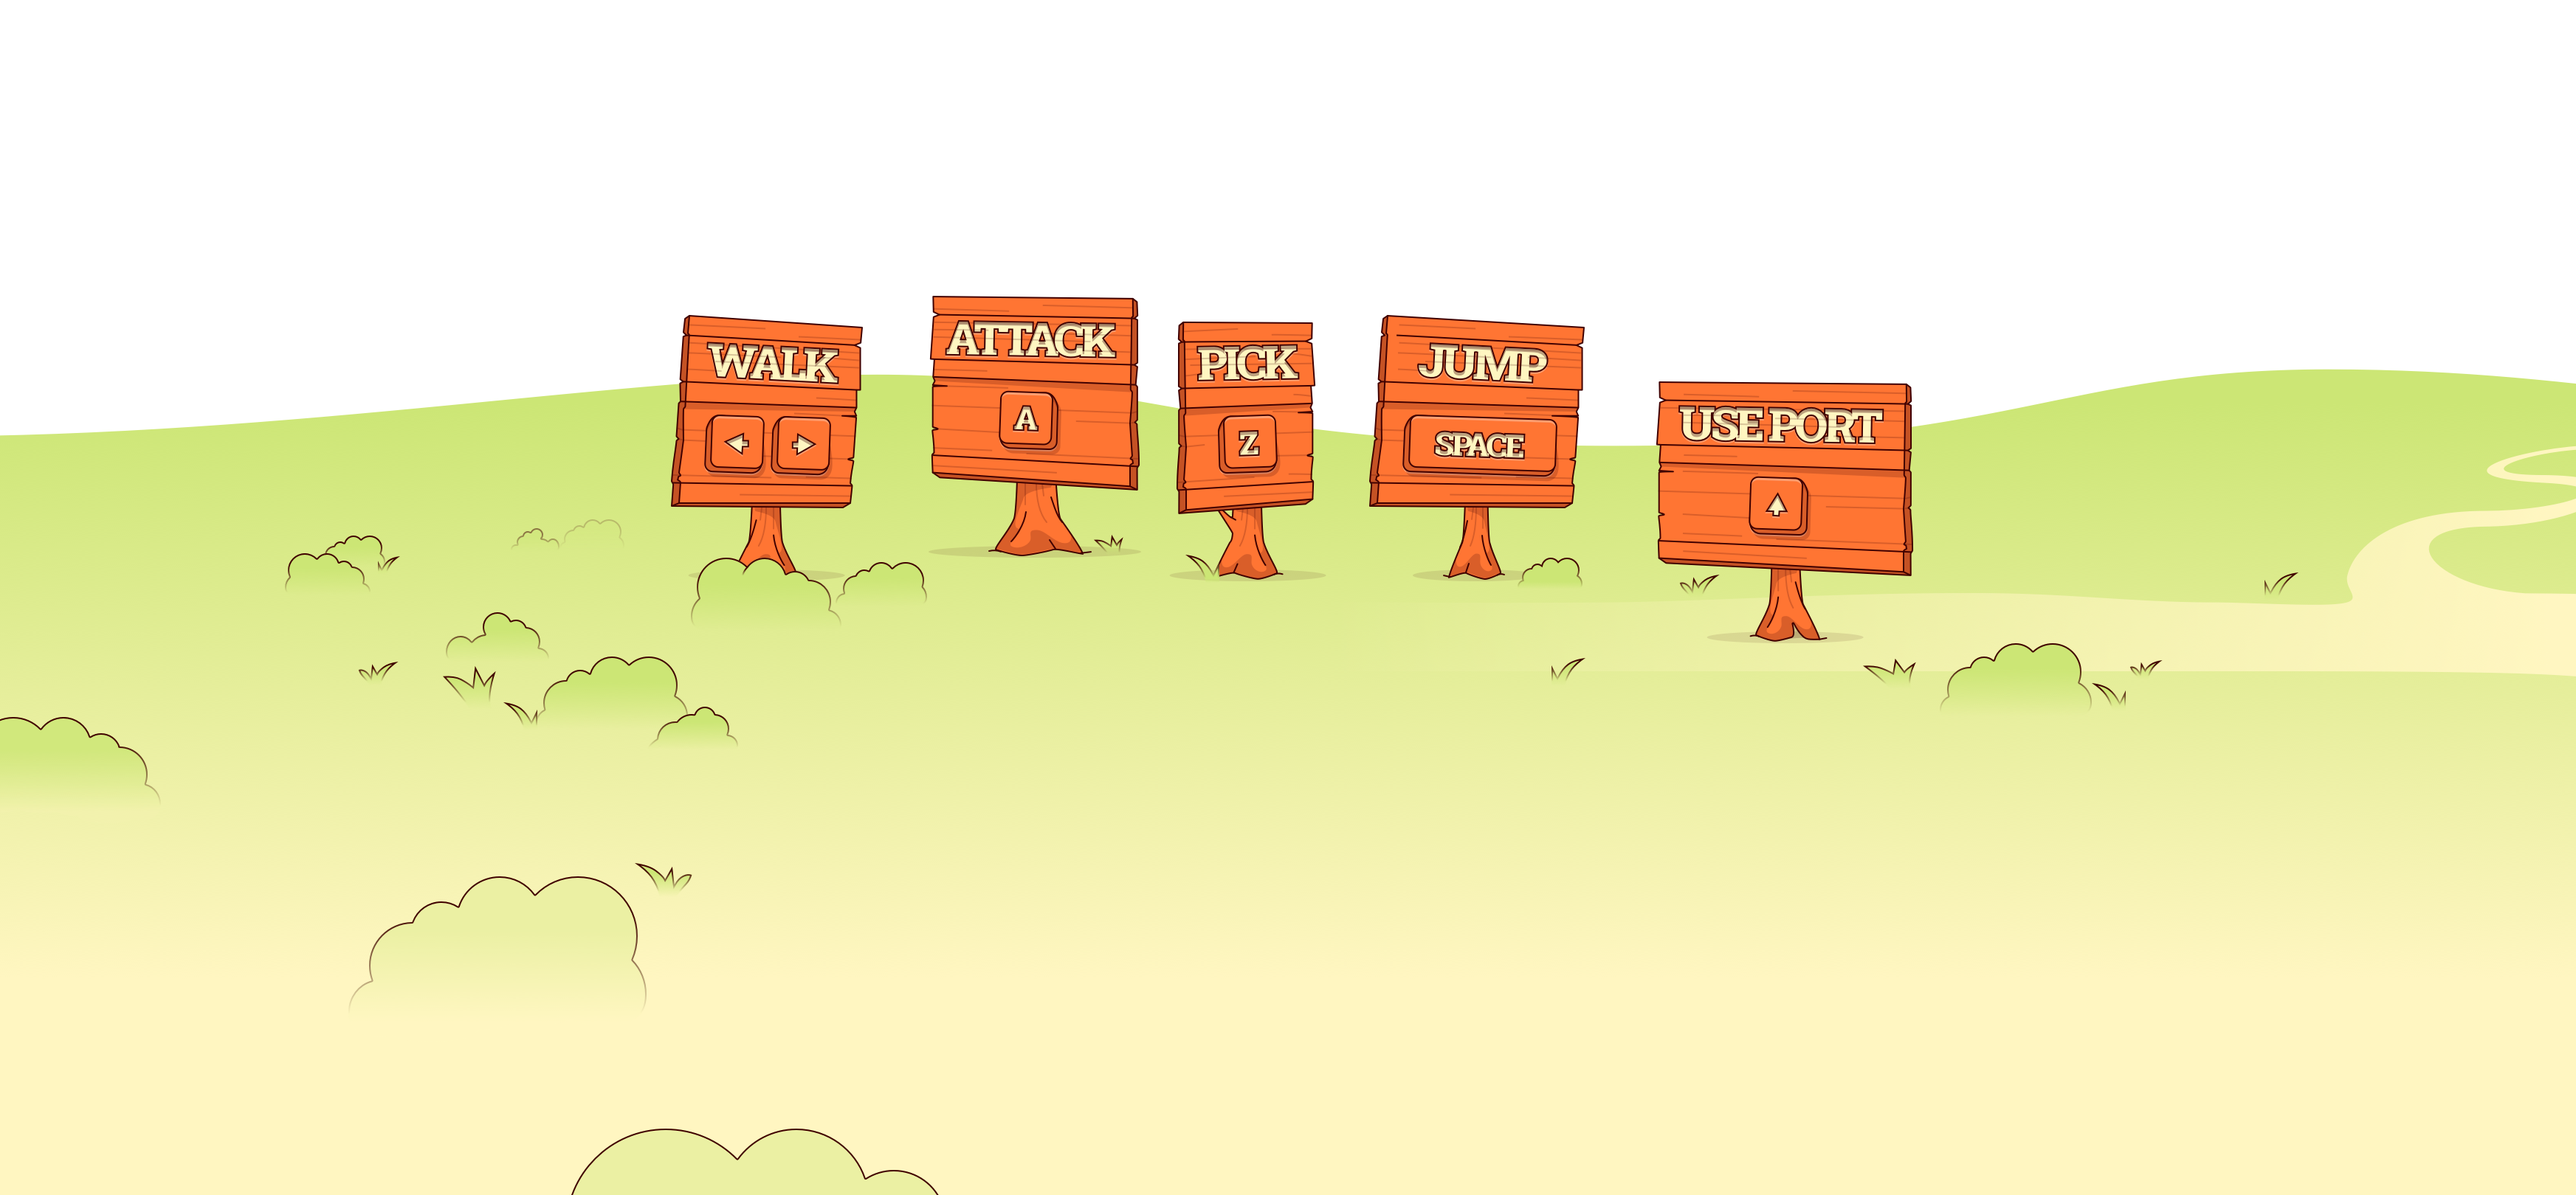
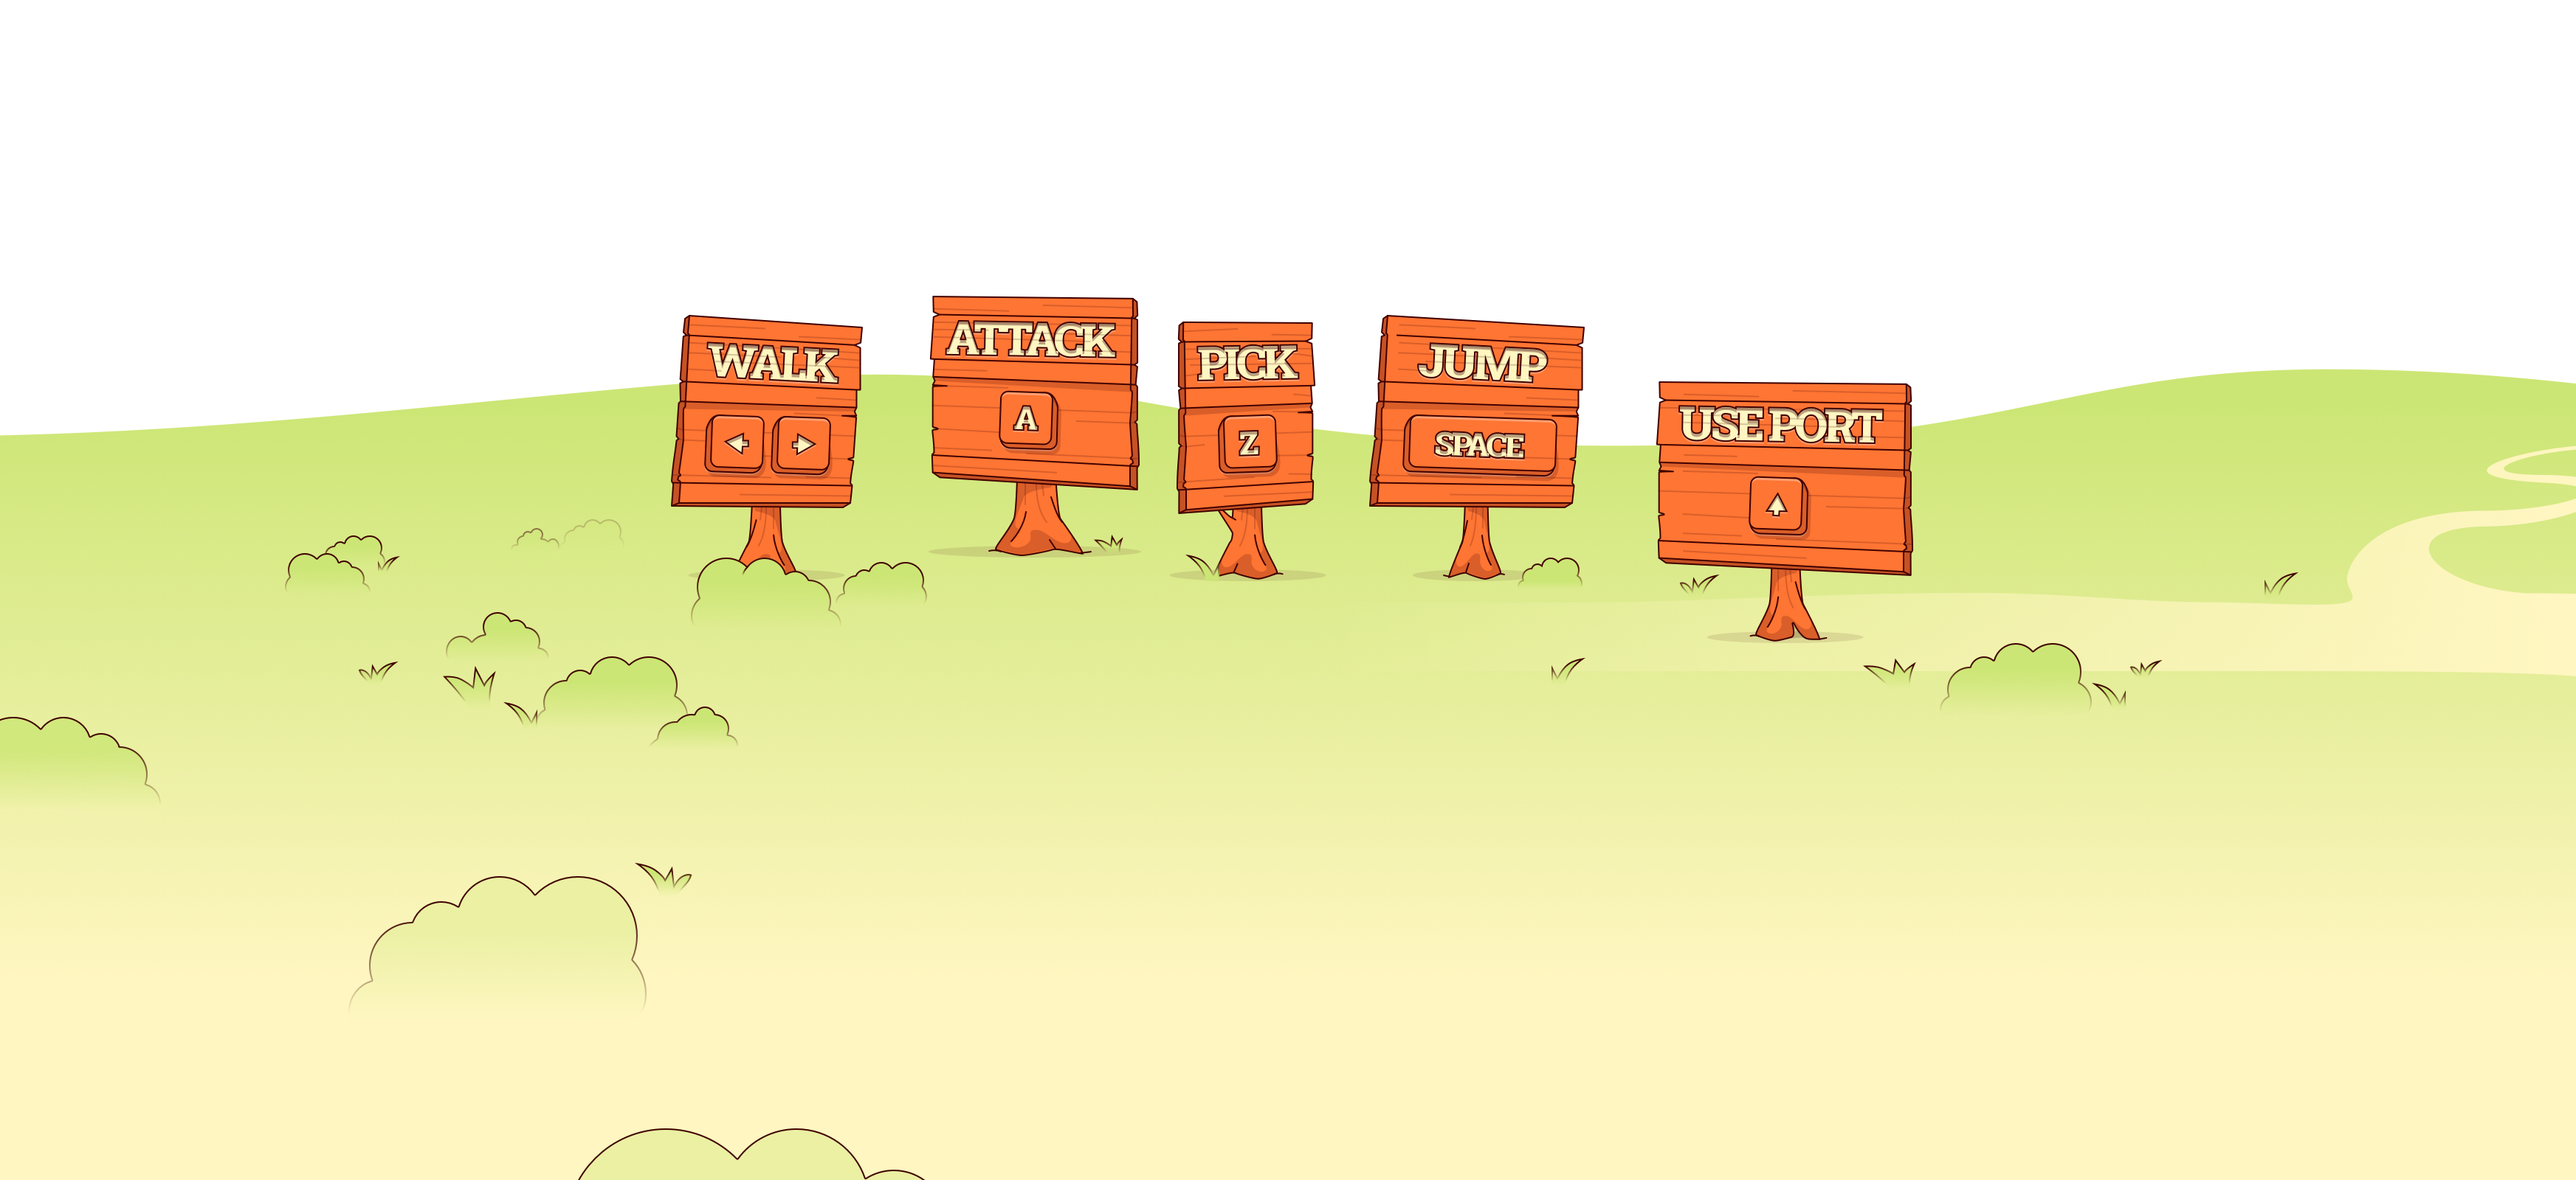
a

diff --git a/style.css b/style.css
@@ -37,10 +37,6 @@ body {
 	bottom:0;
 	transition: left 100ms linear, transform 100ms, margin-bottom 300ms ease-in;
 }
-/* .field.jumping {
-	margin-bottom:-8px;
-	transition: left 100ms linear, transform 100ms, margin-bottom 300ms ease-out;
-} */
 .map {
 	height:100%;
 }
@@ -751,15 +747,6 @@ input:focus {
 	75% { background-position:-300% 0 }
 	100% { background-position:-300% 0 }
 }
-.hero .hand {
-	background:red;
-	width:10px;
-	height:10px;
-	position: absolute;
-	border-radius: 50%;
-	left: 32px;
-    bottom: 10px;
-}
 .hero-shadow {
 	width:50px;
 	height:7px;
@@ -771,12 +758,8 @@ input:focus {
 	z-index:4;
 	opacity:0.3;
 	transition: bottom 300ms ease-in;
+}
 
-}
-.hero-shadow.jumping {
-	bottom:313px;
-	transition: bottom 300ms ease-out;
-}
 /************** WEAPON **************/
 
 .weapon {
@@ -859,7 +842,6 @@ input:focus {
 	display: none;
 }
 
-
 /************** BOW **************/
 
 .weapon[type='range'] {
@@ -874,7 +856,7 @@ input:focus {
 	animation-name: weapon-range-rest;
 }
 @keyframes weapon-range-rest {
-	0% { left:-10; bottom:-21; transform: rotate(168deg)}
+	0% { left:-10; bottom:-21; transform:rotate(168deg)}
 	50% { left:-10; bottom:-22; transform:rotate(170deg) }
 }
 [mode=walk] .weapon[type='range'] {
@@ -893,6 +875,14 @@ input:focus {
 }
 [mode=fight] .weapon[type='range']:after {
 	display: none;
+}
+[mode=jump] .weapon[type='range'] {
+	animation-name: weapon-range-jump;
+}
+@keyframes weapon-range-jump {
+	0% { left:-20; bottom:18; transform:rotate(0deg)  }
+	50% { left:-4 ; bottom:-14; transform:rotate(110deg) }
+	75% { left:-11 ; bottom:-20; transform:rotate(130deg) }
 }
 .projectile {
 	position: absolute;
@@ -948,7 +938,6 @@ input:focus {
 .enemy.dead .image {
 	animation-name: enemy-hit;
 	background-position:-400% 0;
-	opacity:0.8
 }
 .enemy.dead .hpBar {
 	display: none;
@@ -962,7 +951,7 @@ input:focus {
 	animation-name: hit;
 	animation-duration: 800ms;
 	animation-timing-function: ease-out;
-	top:380px;
+	top:390px;
 }
 .hit.self {
 	top:calc(50% - 10px);
@@ -1056,18 +1045,8 @@ input:focus {
 	50% { transform:translateY(-20px) }
 	100% { transform: translateY(-13px); opacity:0 }
 }
-.field .item[type=health-bless] {
-	animation-name:item-shine;
-}
-@keyframes item-shine {
-	0% { transform: translateY(-16px); filter:brightness(100%) }
-	50% { transform:translateY(-10px); filter:brightness(200%) }
-	100% { transform: translateY(-16px); filter:brightness(100%) }
-}
-
 
 /************** NPC **************/
-
 
 .field .npc {
 	position: absolute;

diff --git a/game.js b/game.js
@@ -162,9 +162,8 @@ function enterMap(origin) {
 function jump() {
 	if (mode() == 'fight' || mode() == 'jump' || skillCooldown) return
 	mode('jump')
-	jumpingElems = [hero, $('.field'), $('.hero-shadow')];
-	jumpingElems.forEach(el => el.addClass('jumping'));
-	setTimeout(() => jumpingElems.forEach(el => el.removeClass('jumping')), 300);
+	hero.addClass('jumping')
+	setTimeout(() => hero.removeClass('jumping'), 300);
 	setTimeout(() => { mode('rest'); sound('land') }, 599);
 	sound('jump')
 }
